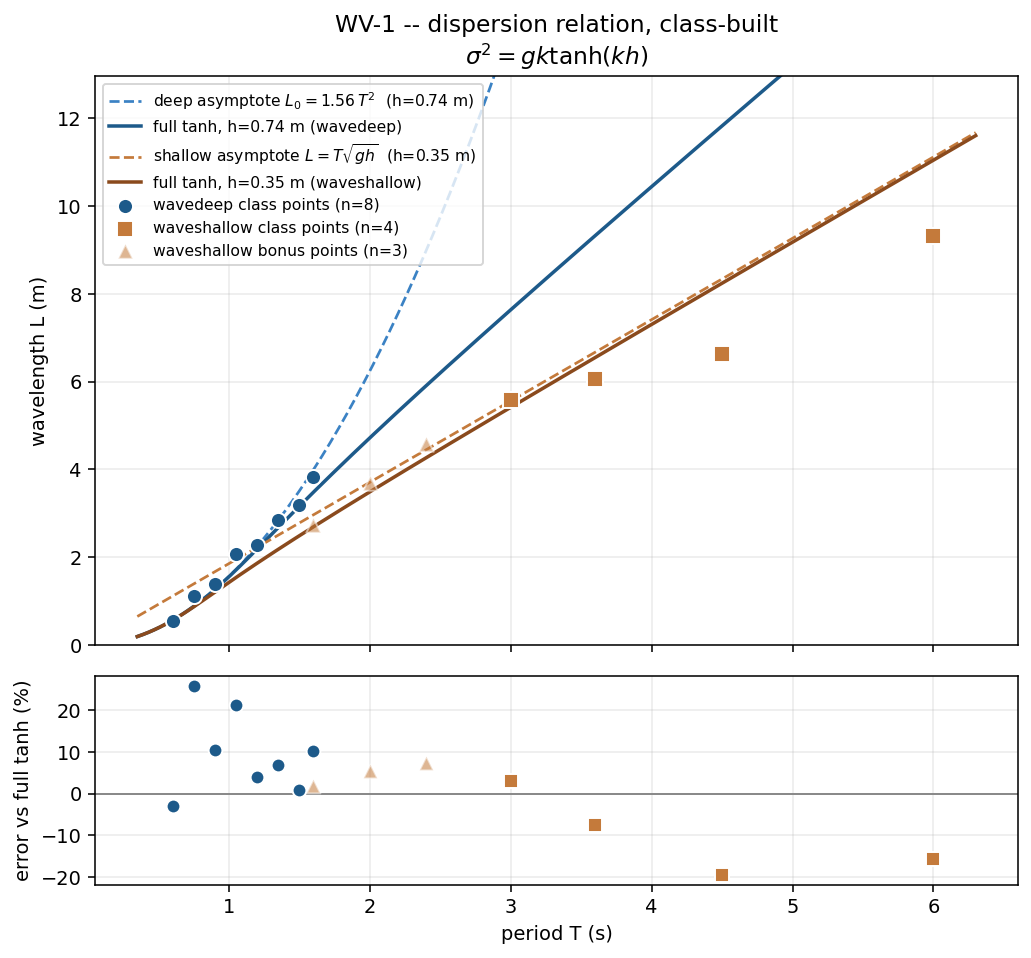
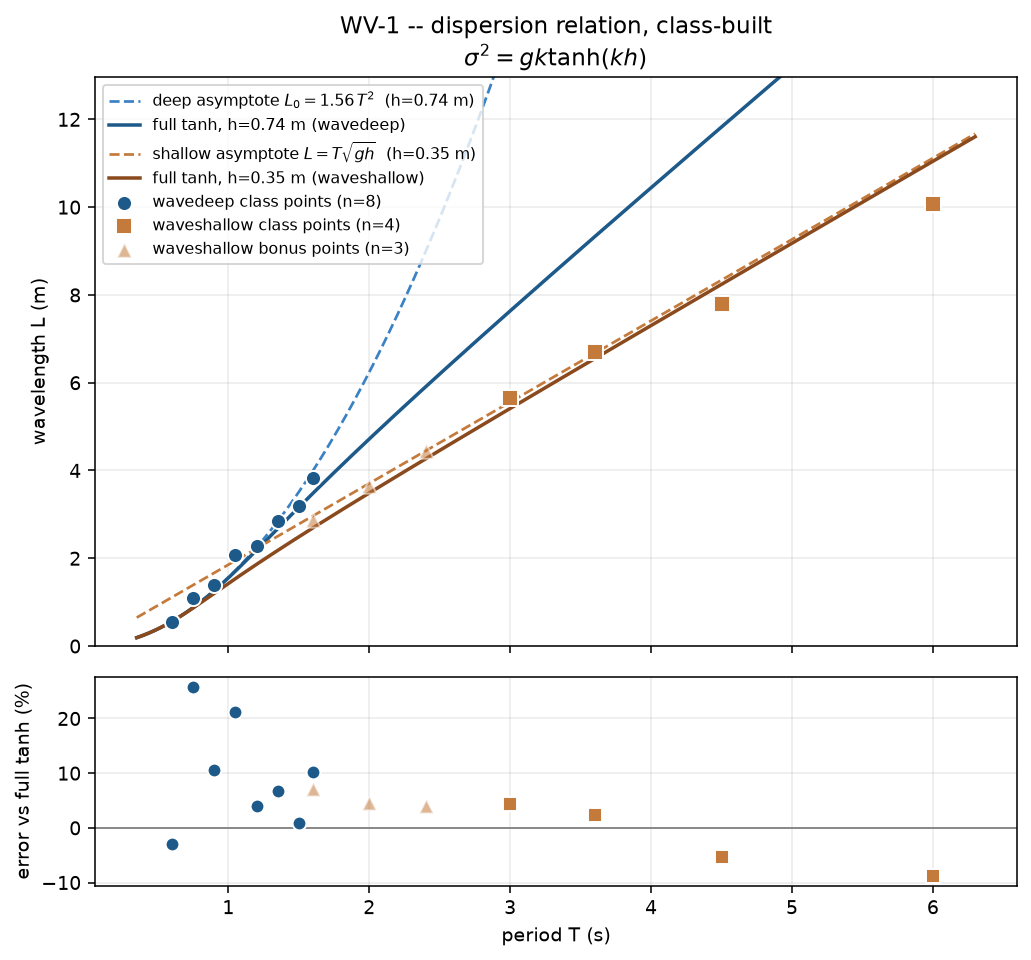
wavedeep keeps the closure for now; WV-1 shallow rows re-measured; B4 headline corrected (#2)
With the closure off, the closed deep flume builds an unsteady mean current
of 0.1-0.5 m/s at the B4 orbit station: tracer trails become streaks, and
the surface/bed ratio scatters 15-150x between windows. At T <= 1.05 s the
wave dies before x = 5.84 m, which breaks B4 and WV-1's short deep rows.
So wavedeep passes mixingLength true and nu 1e-5 back to flume(), exactly
as before; redesigning it (absorbing end, nearer station) is a follow-up.

WV-1: the waveshallow rows are re-measured with the closure off (phase
slope on the flat bed). Mean error against the full relation is +1.1%;
T = 4.5 / 6.0 s read -5% / -9% because the 3 m baseline is shorter than a
wavelength. Deep rows unchanged.

B4: the headline 'about 200x' never reproduced, even with the closure on.
At T = 1.60 s it is 40-50x against 53x from linear theory at the tracer
heights.

diff --git a/js/scenes.js b/js/scenes.js
@@ -317,14 +317,13 @@ const SCENES = (() => {
     const W = o.W, H = o.H, lev = o.lev, bed = o.bed, xb = o.xb, S = o.slope;
     const TH = 2.0, off = (TH / 2) * Math.sqrt(1 + S * S);
     return {
-      group: "Jets & waves", mixingLength: false,   // waves: no channel shear to model
-      // ν = 1e-4 m²/s with the closure off, as WV-4 and WV-5 (mvreeuwijk#2):
-      // at water's 1e-5 the short waves fill with grid-scale noise. Measured on
-      // wavedeep at the B4 station (x = 5.84 m), the paddle-frequency w 2 cells
-      // under the surface over w 1.5 cells above the bed: 7 at ν 1e-5 (the bed
-      // motion is noise), 259 at 1e-4 (≈ linear theory there), 66 at 3e-4; the
-      // closure on gave 134, and a wave half as tall.
-      W, H, c: 26, cf: 0.010, cs: 0.08, bulk: 0.03, ca: 0.8, nu: 1e-4,
+      group: "Jets & waves",
+      // Waves: no channel shear to model, so the closure is off, with ν =
+      // 1e-4 m²/s as WV-4 and WV-5 (mvreeuwijk#2) — at water's 1e-5 the short
+      // waves fill with grid-scale noise once the closure is off. A flume may
+      // pass both back (wavedeep does, below).
+      mixingLength: o.mixingLength === undefined ? false : o.mixingLength,
+      W, H, c: 26, cf: 0.010, cs: 0.08, bulk: 0.03, ca: 0.8, nu: o.nu || 1e-4,
       mode: 0, hmax: lev * 1.5, vmax: o.vmax || 1.4,
       open: [0, 0, 0, 0],
       wave: { amp: o.amp, period: o.period, on: 1, x: 0.30 },
@@ -1562,6 +1561,15 @@ const SCENES = (() => {
     flume({
       id: "wavedeep", name: "Wave flume · deep-water orbits", key: "h/L = 0.59",
       W: 12, H: 1.5, lev: 1.00, bed: 0.26, xb: 8.2, slope: 0.297,
+      // The closure stays ON here, at water's ν, for now (mvreeuwijk#2). Off
+      // (at ν 1e-4) the train carries further — H 0.30 / 0.16 / 0.11 m at
+      // x = 1 / 2 / 4 m against 0.20 / 0.06 / 0.04 — but this closed tank then
+      // builds an unsteady mean current of 0.1–0.5 m/s at the orbit station,
+      // whose trails become streaks, and the short digit periods of B4 / WV-1
+      // (T ≤ 1.05 s) still die before x = 5.84 m. Turning it off needs the
+      // flume redesigned (an absorbing far end as WV-5's, a station nearer the
+      // paddle), which is the follow-up.
+      mixingLength: true, nu: 1e-5,
       tracerX: 5.84, spinup: 20, view: { zoom: 1.9, cx: 5.84, cy: 0.66, vex: 1.6 },
       // Full-length tank on purpose. Halving it to W = 6 (to fill the view,
       // since a 1.26 m wave died within ~3 m with the closure on — off at

diff --git a/docs/engineering-notes.md b/docs/engineering-notes.md
@@ -721,9 +721,14 @@ itself ~2 cells thick. Consequences:
   periods after 20 s: the deep flume 0.30 / 0.16 / 0.11 m at x = 1 / 2 / 4 m
   against 0.20 / 0.06 / 0.04 with it on — the closure was most of that loss;
   the shallow flume 0.059 / 0.057 m at 2 / 3 m against 0.072 / 0.068. At
-  ν = 1e-5 with the closure off the deep flume filled with grid noise: the
-  paddle-frequency w at the B4 station fell to 7× its bed value, against
-  259× at ν 1e-4, so ν 1e-4 is part of switching the closure off.)
+  ν = 1e-5 with the closure off the deep flume filled with grid noise, so
+  ν 1e-4 is part of switching the closure off. But the DEEP flume keeps the
+  closure (and ν 1e-5) for now: off, this closed tank builds an unsteady mean
+  current of 0.1–0.5 m/s at the B4 orbit station — the tracer trails become
+  streaks, the surface/bed ratio scatters 15–150× between 10 s windows — and
+  at T ≤ 1.05 s the wave dies before x = 5.84 m, which breaks B4 and WV-1's
+  short rows. It needs an absorbing far end (as WV-5) and a nearer station;
+  mvreeuwijk#2.)
 - Do not "fix" that by shrinking the tank. Halving the deep flume to W = 6
   improved Δx but put the beach 3 m from the paddle: the reflection built a
   standing wave (H = 0.49 m at x = 1) and the orbit decay collapsed from 244×

diff --git a/courses/original/exercises/WV-1-dispersion/README.md b/courses/original/exercises/WV-1-dispersion/README.md
@@ -89,7 +89,13 @@ relation.
 - **The longest waveshallow rows read low, and it is not a bad measurement.**
   By T = 4.5 s, L is 8–11 m against only 3.7 m of flat bed before the beach,
   so part of any crest-to-crest span sits over the shoal, where the depth —
-  and with it the local wavelength — is already shrinking.
+  and with it the local wavelength — is already shrinking. (Re-measured Oct
+  2026 with the closure off in `waveshallow` (mvreeuwijk/hydraulician#2), the
+  phase slope fitted on the flat bed only, x = 0.5–3.5 m: L = 7.8 m at
+  T = 4.5 s and 10.1 m at 6.0 s against 8.27 and 11.09 m from the full
+  relation, −5 % and −9 %: a 3 m baseline is shorter than one wavelength, so
+  even without the shoal the fit reads a little low. The `wavedeep` rows are
+  unchanged: that flume keeps the closure for now.)
 
 The full verification record — the stroke calibration and why the scene's own
 defaults break at the paddle, the measured wavelength table for both flumes,

diff --git a/courses/original/exercises/B4-orbital-decay/README.md b/courses/original/exercises/B4-orbital-decay/README.md
@@ -3,8 +3,10 @@
 Every student drops a column of orbit tracers into the deep-water flume,
 zooms in until the trails stop being invisible, and reads off how much
 smaller the loop is near the bed than at the surface. The vertical motion
-dies out almost completely well above the bed — the verified figure for this
-flume is about 200× — while the horizontal motion never fully vanishes,
+dies out almost completely well above the bed — re-measured Oct 2026 at
+T = 1.60 s (stroke 0.30), the surface's vertical swing is 40–50× the bed's
+against 53× from linear theory at the tracer heights (an earlier "about 200×"
+did not reproduce) — while the horizontal motion never fully vanishes,
 because a particle sitting on the floor can still slide sideways but cannot
 sink into it.
 
